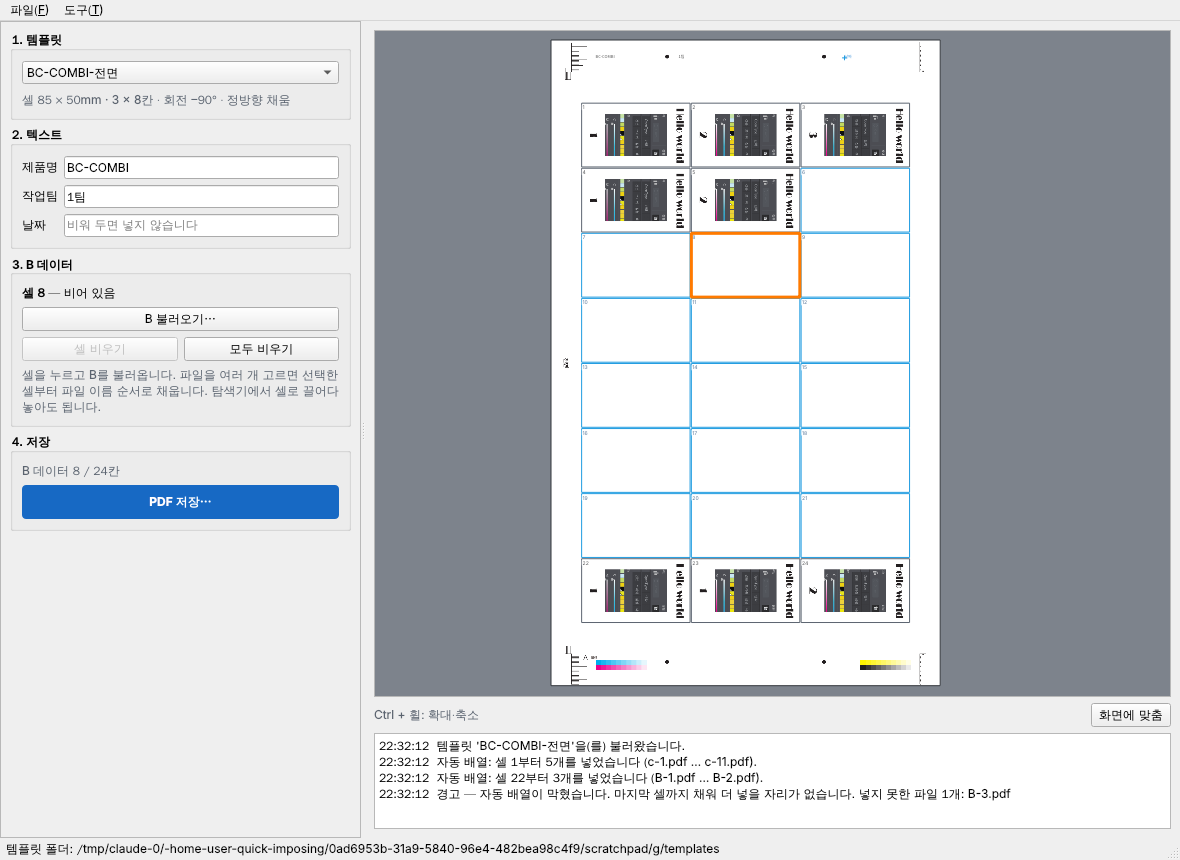
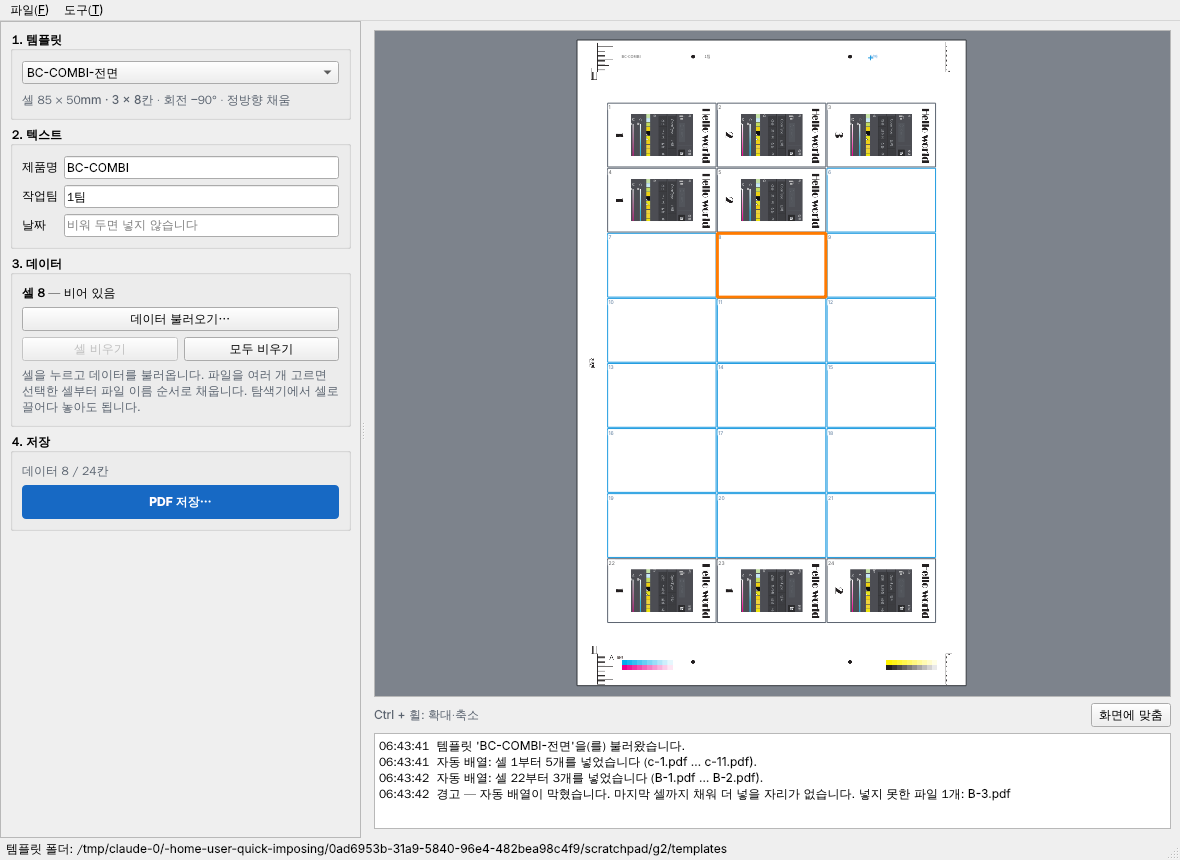
UI wording: call card files 데이터 instead of B (0.4.3)
Claude-Session: https://claude.ai/code/session_01Q2SD6SHQvz2ao2E4HTTg5T

diff --git a/imposing/gui/work.py b/imposing/gui/work.py
@@ -102,19 +102,19 @@ class WorkWindow(QMainWindow):
 
         self.cell_info = QLabel("")
         self.cell_info.setWordWrap(True)
-        self.load_button = QPushButton("B 불러오기…")
+        self.load_button = QPushButton("데이터 불러오기…")
         self.load_button.clicked.connect(self.load_files)
         self.remove_button = QPushButton("셀 비우기")
         self.remove_button.clicked.connect(self.remove_selected)
         self.clear_button = QPushButton("모두 비우기")
         self.clear_button.clicked.connect(self.clear_all)
         hint = QLabel(
-            "셀을 누르고 B를 불러옵니다. 파일을 여러 개 고르면 선택한 셀부터 "
+            "셀을 누르고 데이터를 불러옵니다. 파일을 여러 개 고르면 선택한 셀부터 "
             "파일 이름 순서로 채웁니다. 탐색기에서 셀로 끌어다 놓아도 됩니다."
         )
         hint.setObjectName("hint")
         hint.setWordWrap(True)
-        data_box = QGroupBox("3. B 데이터")
+        data_box = QGroupBox("3. 데이터")
         layout = QVBoxLayout(data_box)
         layout.addWidget(self.cell_info)
         layout.addWidget(self.load_button)
@@ -313,10 +313,10 @@ class WorkWindow(QMainWindow):
             return
         cell = self.view.selected
         if not cell:
-            QMessageBox.information(self, "셀을 선택하세요", "먼저 B를 넣을 셀을 누르세요.")
+            QMessageBox.information(self, "셀을 선택하세요", "먼저 데이터를 넣을 셀을 누르세요.")
             return
         paths, _ = QFileDialog.getOpenFileNames(
-            self, f"셀 {cell}부터 넣을 B 데이터 선택", self.last_folder, "PDF 파일 (*.pdf)"
+            self, f"셀 {cell}부터 넣을 데이터 선택", self.last_folder, "PDF 파일 (*.pdf)"
         )
         if paths:
             self.place_files(cell, paths)
@@ -396,7 +396,7 @@ class WorkWindow(QMainWindow):
         if not self.session or not self.session.placements:
             return
         answer = QMessageBox.question(
-            self, "모두 비우기", "모든 셀의 B 데이터를 비울까요? 텍스트는 그대로 둡니다."
+            self, "모두 비우기", "모든 셀의 데이터를 비울까요? 텍스트는 그대로 둡니다."
         )
         if answer == QMessageBox.Yes:
             self.session.clear()
@@ -445,7 +445,7 @@ class WorkWindow(QMainWindow):
             return
         if not self.session.placements:
             answer = QMessageBox.question(
-                self, "빈 판 저장", "B 데이터가 하나도 없습니다. 그대로 저장할까요?"
+                self, "빈 판 저장", "데이터가 하나도 없습니다. 그대로 저장할까요?"
             )
             if answer != QMessageBox.Yes:
                 return
@@ -558,7 +558,7 @@ class WorkWindow(QMainWindow):
             self.cell_info.setText(f"<b>셀 {cell}</b> — 비어 있음")
         if active:
             total = len(self.session.cell_positions())
-            self.count_label.setText(f"B 데이터 {len(self.session.placements)} / {total}칸")
+            self.count_label.setText(f"데이터 {len(self.session.placements)} / {total}칸")
             title = self.session.project_path.name if self.session.project_path else "새 작업"
             mark = " *" if self.session.dirty else ""
             self.setWindowTitle(f"퀵 임포징 — 작업 [{self.session.template_name}] {title}{mark}")

diff --git a/imposing/session.py b/imposing/session.py
@@ -189,8 +189,8 @@ class Session:
             ]
         except ValueError:
             raise SessionError(
-                "B 데이터와 저장 위치는 같은 드라이브에 있어야 합니다.\n"
-                "B 데이터가 있는 드라이브에 저장하세요.",
+                "데이터와 저장 위치는 같은 드라이브에 있어야 합니다.\n"
+                "데이터가 있는 드라이브에 저장하세요.",
                 "DIFFERENT_DRIVE",
             ) from None
         return dict(

diff --git a/README.md b/README.md
@@ -1,11 +1,11 @@
 # 퀵 임포징 (quick-imposing)
 
-베이스 PDF 위에 카드 PDF(B 데이터)를 셀에 넣어 인쇄용 판 PDF를 만드는 프로그램입니다. 프로그램은 두 개입니다.
+베이스 PDF 위에 카드 PDF(데이터)를 셀에 넣어 인쇄용 판 PDF를 만드는 프로그램입니다. 프로그램은 두 개입니다.
 
 | 프로그램 | 하는 일 | 쓰는 때 |
 |---|---|---|
 | `QuickImposingEditor.exe` (템플릿 편집기) | 판 구조(베이스, 셀 배열, 텍스트 자리)를 템플릿으로 만든다 | 새 사양이 생겼을 때 한 번 |
-| `QuickImposing.exe` (작업 프로그램) | 템플릿을 골라 셀에 B 데이터를 넣고 PDF를 저장한다 | 매 작업 |
+| `QuickImposing.exe` (작업 프로그램) | 템플릿을 골라 셀에 데이터를 넣고 PDF를 저장한다 | 매 작업 |
 
 ## 설치
 
@@ -52,8 +52,8 @@
 
 1. **템플릿**을 고릅니다. 판과 빈 셀(하늘색 선)이 보입니다.
 2. **텍스트**를 입력합니다. 비워 둔 칸은 PDF에 넣지 않습니다.
-3. **B 데이터**를 넣습니다.
-   - 셀을 누르고 `B 불러오기`를 누릅니다. 셀을 두 번 눌러도 됩니다.
+3. **데이터**를 넣습니다.
+   - 셀을 누르고 `데이터 불러오기`를 누릅니다. 셀을 두 번 눌러도 됩니다.
    - 탐색기에서 PDF를 셀 위로 끌어다 놓아도 됩니다.
    - 파일을 **여러 개** 고르면, 선택한 셀부터 파일 이름 순서(1, 2, … 10, 11)로 차례로 채웁니다.
    - 이미 데이터가 있는 셀을 만나거나 마지막 셀까지 차면, 거기서 멈추고 넣지 못한 파일을 알려 줍니다.
@@ -71,18 +71,18 @@
 | `이름.report.json` | 처리 기록 |
 
 - 같은 이름의 파일이 있으면 덮어쓰지 않고 `이름-2`를 제안합니다.
-- B 데이터는 저장 위치와 같은 드라이브에 두고, 저장 뒤에는 옮기지 않는 것이 좋습니다. 프로젝트가 B 데이터의 위치를 기억합니다.
+- 데이터는 저장 위치와 같은 드라이브에 두고, 저장 뒤에는 옮기지 않는 것이 좋습니다. 프로젝트가 데이터의 위치를 기억합니다.
 
 ### 다시 열어 고치기
 
-`파일 → 프로젝트 열기`에서 `.qiproj.json`을 엽니다. 빠진 데이터를 넣거나 바꾼 뒤 새 이름으로 저장합니다. B 파일을 찾지 못한 셀은 빗금으로 보이며, 그대로 저장하면 그 칸은 비어 나옵니다.
+`파일 → 프로젝트 열기`에서 `.qiproj.json`을 엽니다. 빠진 데이터를 넣거나 바꾼 뒤 새 이름으로 저장합니다. 데이터 파일을 찾지 못한 셀은 빗금으로 보이며, 그대로 저장하면 그 칸은 비어 나옵니다.
 
 ### 화면 조작
 
 | 조작 | 동작 |
 |---|---|
 | 셀 누르기 | 셀 선택 (주황색 테두리) |
-| 셀 두 번 누르기 | 그 셀부터 B 불러오기 |
+| 셀 두 번 누르기 | 그 셀부터 데이터 불러오기 |
 | Ctrl + 마우스 휠 | 확대 · 축소 |
 | `화면에 맞춤` | 판 전체 보기 |
 | Delete | 선택한 셀 비우기 |

diff --git a/PR/004-gui.md b/PR/004-gui.md
@@ -135,3 +135,7 @@ Windows 결과는 GitHub Actions `windows` 워크플로 run #9(커밋 `9cee2ed`)
 
 사용자 PC에서 `build.ps1`이 `dist\QuickImposing` 삭제 단계에서 "액세스가 거부되었습니다"로 멈췄다. 배포 폴더의 프로그램이 켜져 있어 파일이 잠긴 것이다. 빌드 전에 실행 여부를 확인해 한국어로 안내하고, 삭제 실패도 같은 안내로 멈추게 했다.
 
+
+### 2026-11-13 화면 용어: B → 데이터 (0.4.3)
+
+사용자 요청. "B"는 초기에 설명하려고 붙인 이름이라 화면에는 맞지 않는다. 작업 프로그램의 버튼·안내 문구와 사용설명서(README)에서 "B", "B 데이터"를 "데이터"로 바꿨다. 내부 문서(SPEC, 요구사항, 작업 지시서)와 코드·리포트의 코드명(`B_FILE_MISSING` 등)은 그대로 둔다.
